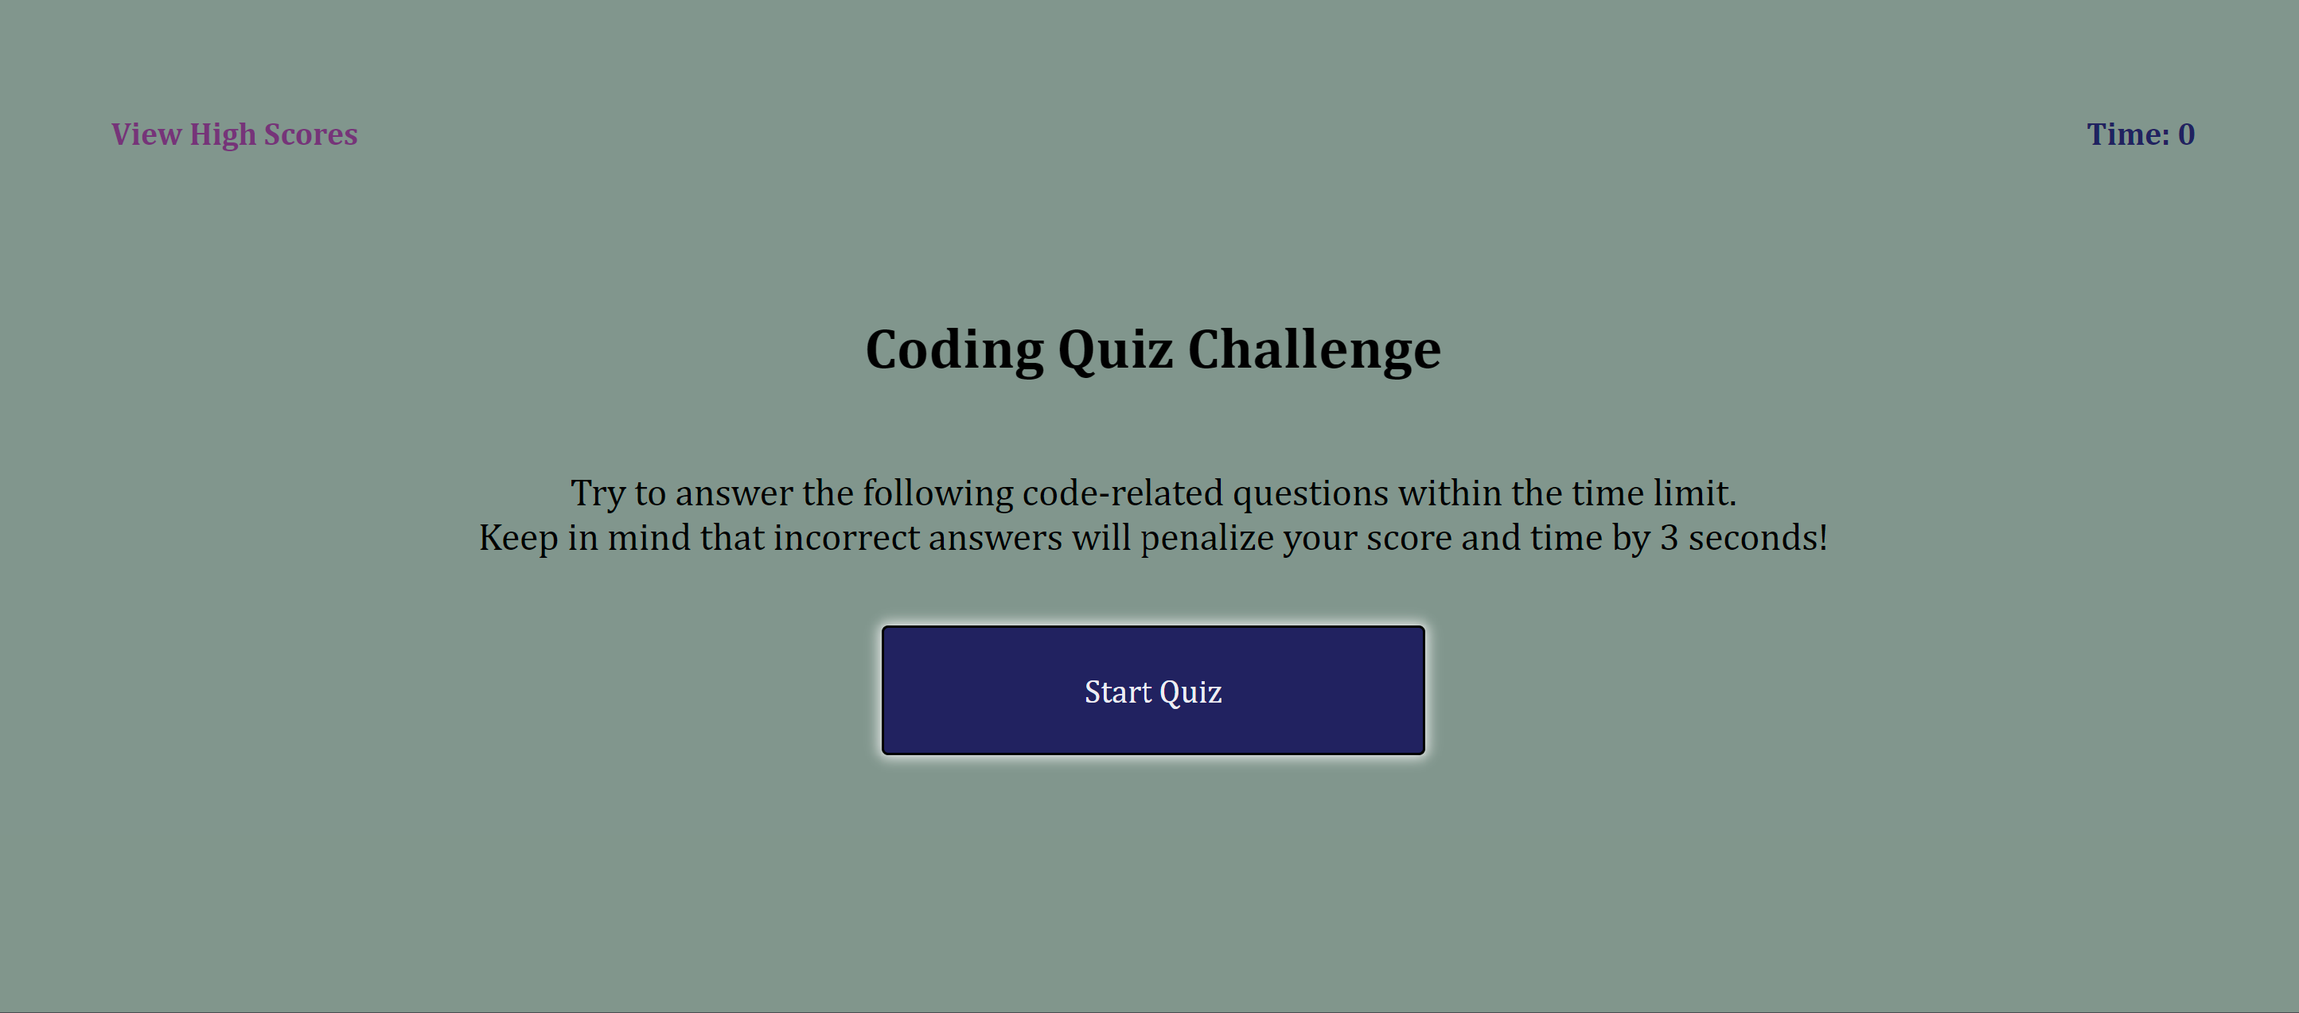
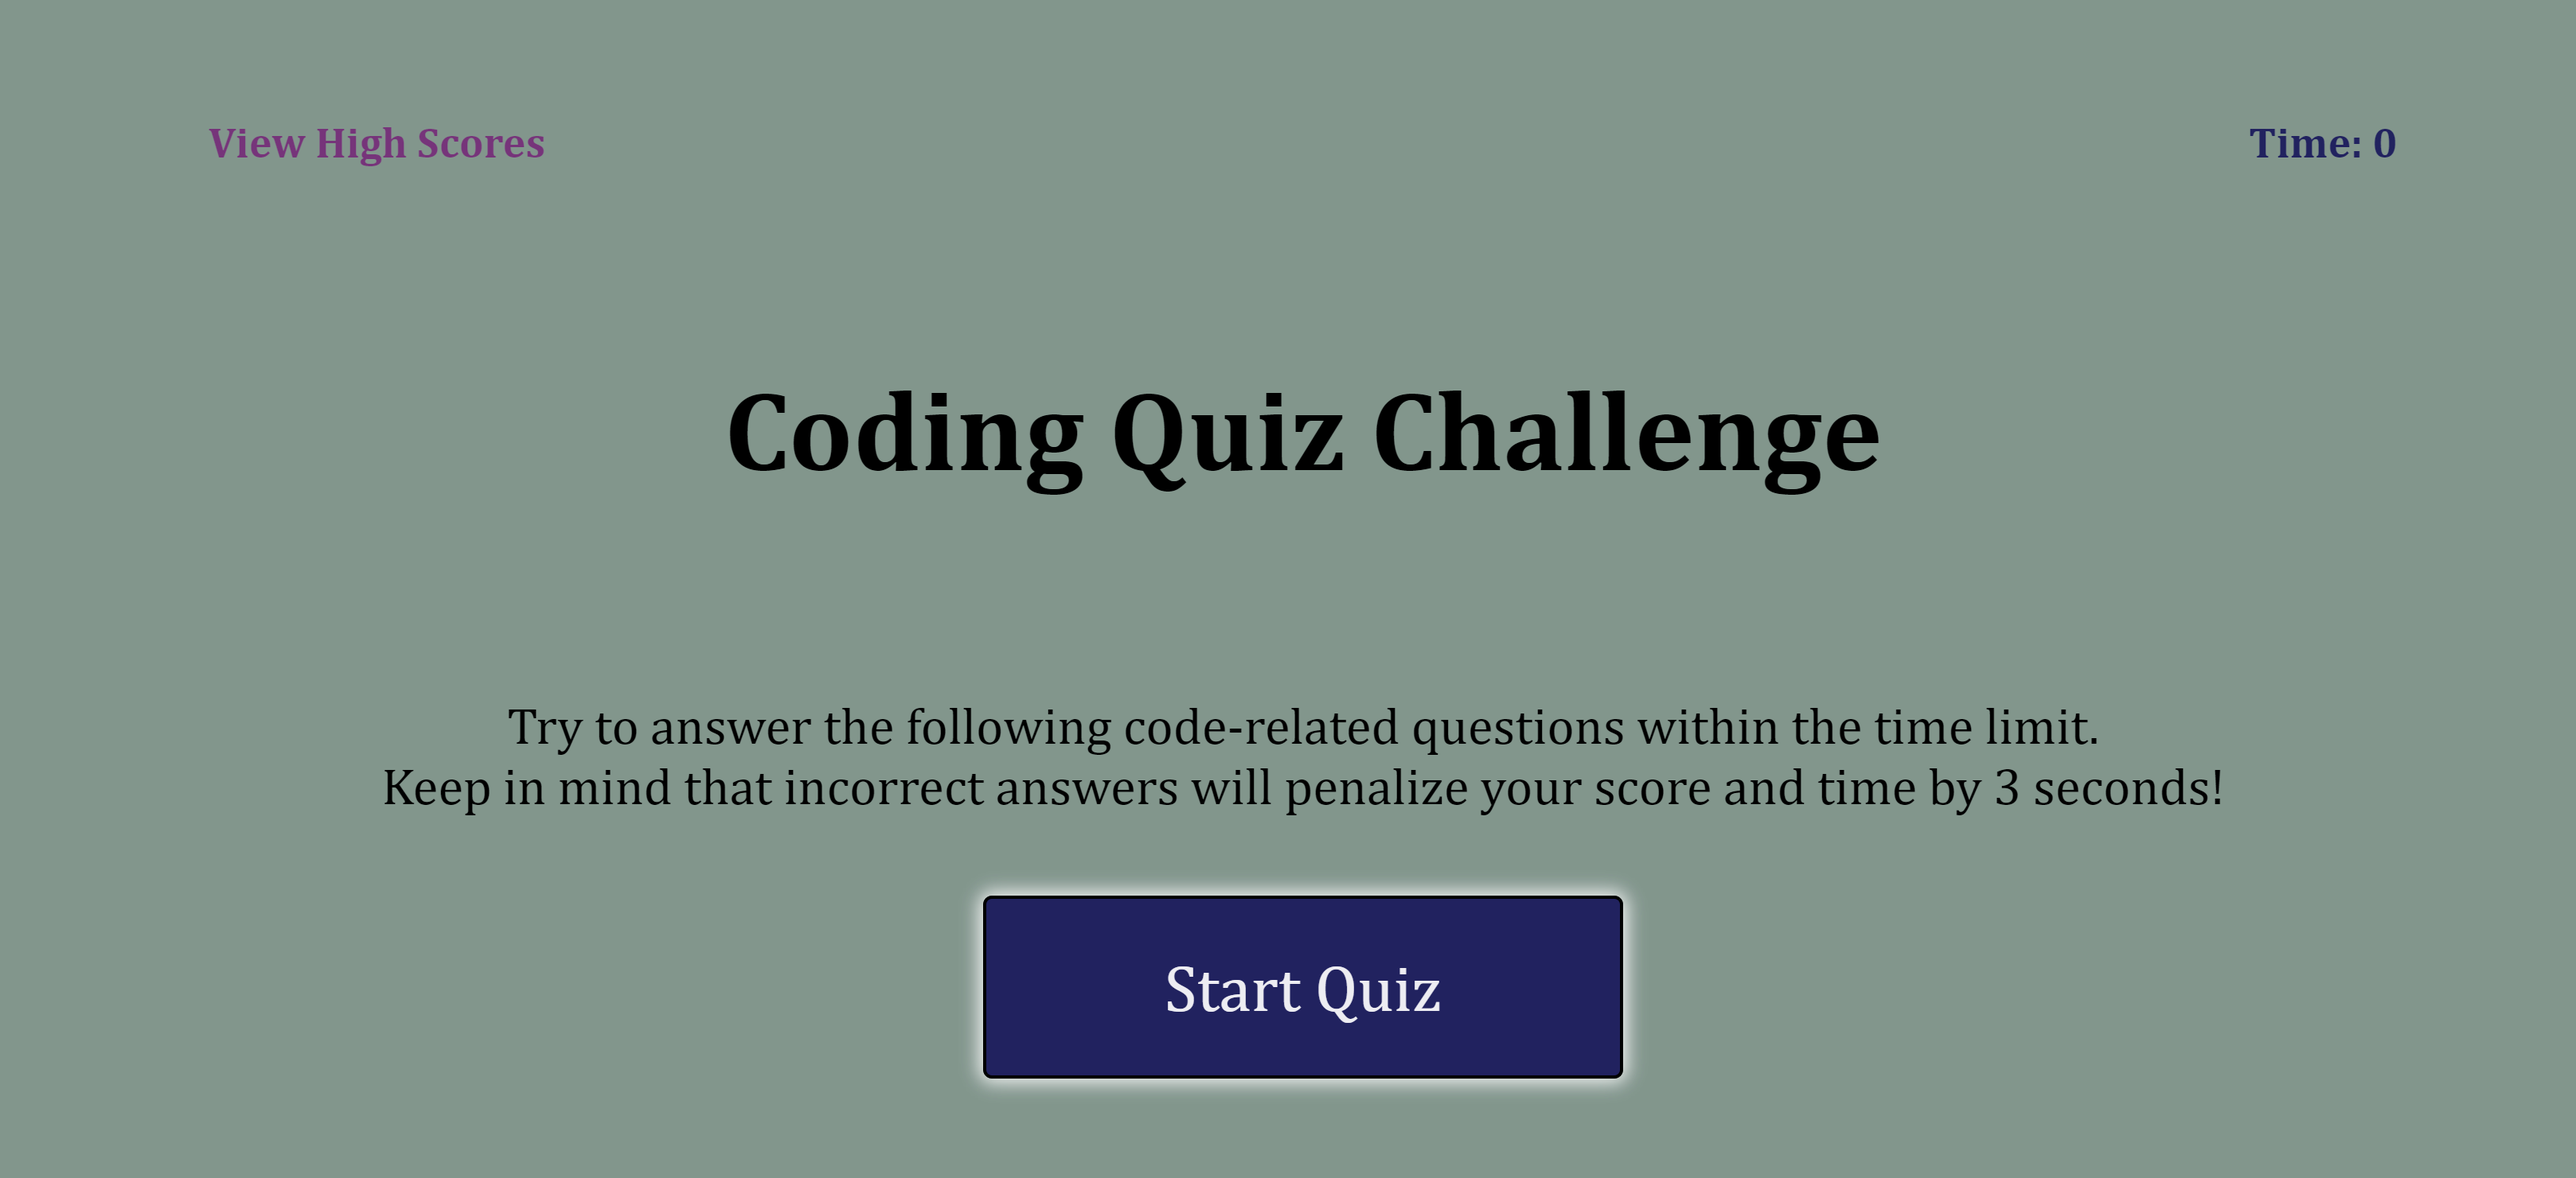
oops

diff --git a/assets/script.js b/assets/script.js
@@ -65,8 +65,6 @@ const questions = [
 //first div -- the hompage
 const homePage = document.getElementById("homepage");
 const startButton = document.getElementById("start-button");
-//highscores page link -- top left in navbar 
-const navEl = document.getElementById("nav-score");
 //questions container
 const questionContainerElement = document.getElementById("question-container");
 //element where the question will be displayed
@@ -85,9 +83,7 @@ const yourScore = document.getElementById("display-score");
 const initials = document.getElementById("input-initials");
 //high scores page
 const elementHighScores = document.getElementById("highscore-log");
-//div inside of highscore-log section tag; couldn't get styling to work on section tag
-// const viewHighScores = document.getElementById("hisco-id");
-//element in which the high scores will log to; the ol tag
+// //element in which the high scores will log to; the ol tag
 const scoreContainer = document.getElementById("scores-log");
 //will be located on the initials form page
 const subButton = document.getElementById("submit-button");
@@ -95,6 +91,15 @@ const subButton = document.getElementById("submit-button");
 const restartBtn = document.getElementById('restart-button');
 //will be located on high scores page
 const clearHighScoreBtn = document.getElementById('clear-button');
+
+// const highScoreEl = document.getElementById("hisco-id");
+// //highscores page link -- top left in navbar 
+// const navEl = document.getElementById("nav-score"); 
+// // //event listener for view high score navbar link
+// // navEl.addEventListener('click', hiScorePage????);
+// // var olEl = document.getElementById('scores-log'); ???
+
+
 //variables to track array and time
 let currentQuestionIndex = 0;
 let shuffledQuestions = null;
@@ -108,15 +113,9 @@ var highScore;
 
 //event listener for start quiz button -- starts the quiz by firing the startQuiz function
 startButton.addEventListener("click", startQuiz);
-//event listener for view high score navbar link
-navEl.addEventListener('click', elementHighScores);
+
 //event listener for submit button on initials page
 subButton.addEventListener('click', elementHighScores);
-//event listener for restart quiz button click
-restartBtn.addEventListener('click', reloadQuiz);
-//event listener to clear high score storage
-clearHighScoreBtn.addEventListener('click', clearStorage);
-
 
 //countdown timer function
 function setTime(){
@@ -127,29 +126,32 @@ function setTime(){
         
         if (timeLeft <= 0) {
             //stops the execution of action at set interval
-            gameOver();
+            endQuiz();
         }
     }, 1000);
 }
 
+// //event listener for restart quiz button click
+restartBtn.addEventListener('click', reloadQuiz);
 
-//function that fires on restart button click; reloads quiz to take again
+// reload the quiz to retake
 function reloadQuiz() {
     location.reload();
+    console.log('i reloaded the quiz');
   }
+
+
+ //event listener to clear high score storage
+clearHighScoreBtn.addEventListener('click', clearStorage);
 
 function clearStorage() {
   localStorage.clear();
-  reloadQuiz();
+  console.log('i cleared the local storage');
 }
 
 
-function gameOver() {
-    clearInterval(timerInterval);
-    yourScore.textContent = highScore;
-    quizComplete.classList.remove('hide');
-    questionContainerElement.classList.add('hide');
-}
+restartBtn.setAttribute('class', 'hide');
+clearHighScoreBtn.setAttribute('class', 'hide');
 
 function returnToQuiz() {
     homePage.classList.remove('hide');
@@ -158,15 +160,14 @@ function returnToQuiz() {
 
 
 
+
+
 function startQuiz() {
+    console.log("i clicked the startQuiz button");
     highScore = 0;
-    //test to make sure our startQuiz function is being called w/startBtn when clicked
     console.log("started");
-    //meed to hide the startBtn + title page; need to display the first set of questions
     startButton.classList.add("hide");
     homePage.classList.add("hide");
-    restartBtn.setAttribute('class', 'hide');
-    clearHighScoreBtn.setAttribute('class', 'hide');
 
     shuffledQuestions = questions.sort(() => Math.random() - .5);
     questionContainerElement.classList.remove("hide");
@@ -188,7 +189,7 @@ function setNextQuestion() {
         const option = currentQuest.options[i];
         console.log(option);
         var btn = document.createElement("button");
-        btn.setAttribute("class", "option btn");
+        btn.setAttribute("class", "option btn btn-flex");
         btn.setAttribute("value", option);
         btn.textContent = "" + option;
         answerButtonsEl.appendChild(btn);
@@ -208,7 +209,7 @@ function userChoice(event) {
         setTimeout(function(){
             incorrectAnsDisplay.setAttribute('class', 'hide');
         }, 700);
-        // alert("Incorrect! You lost 3 seconds");
+        // alert("Incorrect! You lost 27 seconds");
         timeLeft -= 7;
         timer.textContent = timeLeft;
         console.log("user's a loser");
@@ -217,7 +218,7 @@ function userChoice(event) {
             setTimeout(function(){
                 correctAnsDisplay.setAttribute('class', 'hide');
             }, 700);
-            highScore += 27;
+            highScore += 7;
             // alert("Correct!")
         }
 
@@ -227,8 +228,10 @@ function userChoice(event) {
         console.log("help lol");
         console.log(highScore);
         endQuiz ();
+            console.log("i started the end of the quiz");
     } else {
         setNextQuestion();
+            console.log("i went to the next question");
       }
 }
 
@@ -241,11 +244,11 @@ function endQuiz() {
     quizComplete.setAttribute('style', 'margin-top: 0%');
     questionContainerElement.setAttribute('class', 'hide');   
     subButton.removeAttribute('class', 'hide');
-    subButton.classList.add('class', 'btn', 'btn-flex')
+    subButton.classList.add('btn', 'btn-flex');
     localStorage.setItem('scoreContainer', highScore); 
 }
 
-// tells the scoreLog(){} to run
+
 subButton.onclick = scoreLog;
 
 // logs the player's initials and score to the high score page
@@ -253,14 +256,14 @@ subButton.onclick = scoreLog;
 function scoreLog() {
     subButton.setAttribute('class', 'hide');
     restartBtn.removeAttribute('class', 'hide');
-    restartBtn.classList.add('class', 'btn', 'btn-flex');
+    restartBtn.classList.add('btn', 'btn-flex');
     clearHighScoreBtn.removeAttribute('class', 'hide');
-    clearHighScoreBtn.classList.add('class', 'btn', 'btn-flex');
+    clearHighScoreBtn.classList.add('btn', 'btn-flex');
 
     //need to take in and identify the user input data
     let userInitials = initials.value.trim();
     if (userInitials === "") {
-        return;
+        // return;
     }
 
     var highScoreArray = JSON.parse(localStorage.getItem("highScores")) || [];
@@ -275,20 +278,22 @@ function scoreLog() {
     //when sending to local systmem must stringify and then set it
     localStorage.setItem("highScores", JSON.stringify(highScoreArray));
     quizComplete.setAttribute('class', 'hide');
-    subButton.setAttribute('class', 'hide');
+    // this is what makes the score log show up
     elementHighScores.removeAttribute('class', 'hide');
     highScoreArray.sort(function(x,y){
         return y.score - x.score;
     })
-
+    // this prints the high score and initials of user on the page
     scoreContainer.innerHTML = "";
     for (let i = 0; i < highScoreArray.length; i++) {
         let li = document.createElement("li");
-        li.textContent = highScoreArray[i].initials + " - " + highScoreArray[i].score;
+        li.textContent = highScoreArray[i].initials + "     --------     " + highScoreArray[i].score;
         scoreContainer.appendChild(li);
         scoreContainer.setAttribute('style', 'font-weight:bolder; color: rgba(27, 27, 93, 0.95)', 'line-height: 1.5')
     }
 }
+
+
 
 
 

diff --git a/assets/style.css b/assets/style.css
@@ -56,7 +56,7 @@ body {
 }
 
 #homepage h1 {
-    font-size: 2.2em;
+    font-size: 2.0em;
 }
 
 #homepage p {
@@ -65,8 +65,8 @@ body {
 
 .h-style {
     text-align: center;
-    margin-top: 4%;
-    font-size:1.8em;
+    margin-top: 3%;
+    font-size:1.7em;
     display: flex;
     flex-direction: column;
     flex-wrap: wrap;
@@ -211,12 +211,12 @@ ol {
   
 
 /* remove hover state from mobile */
-/* @media (hover: hover) { */
+ @media (hover: hover) { */
     /* when hover is supported */
-    /* .button:hover {
+    .button:hover {
         background-color: var(--hover-text-color);
         cursor: pointer;
     }
 }
- */
+ 
 

diff --git a/index.html b/index.html
@@ -28,7 +28,7 @@
                 Keep in mind that incorrect answers will penalize your score and time by 3 seconds!
             </p> 
             <div class="btn-flex">
-                <button id=start-button class="btn">Start Quiz</button>
+                <button id=start-button class="btn btn-flex">Start Quiz</button>
             </div>
         </div>
 

diff --git a/assets/notesToMyself.md b/assets/notesToMyself.md
@@ -7,6 +7,9 @@
 * add restart or reset button to restart or reset the quiz
 * link the high scores hyperlink to the actual high scores log
 * make.sure. that if the timer goes to 0, they absolutely lose
+* restart button; reload button
+* clear local storage button
+
 
 
 ## Grading Notes
